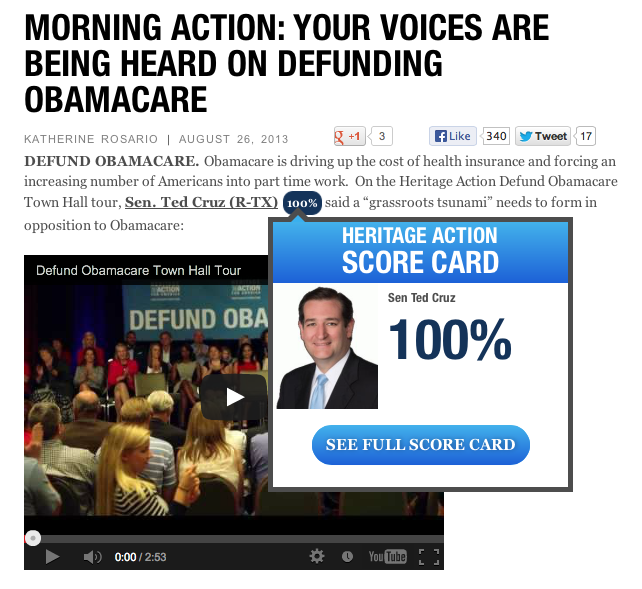
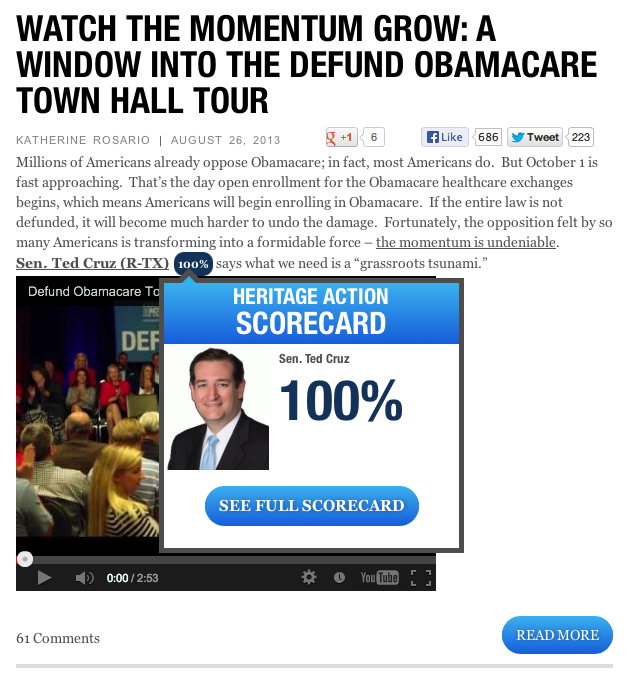
Updated scorecard spelling
git-svn-id: https://plugins.svn.wordpress.org/heritageaction-score-card-member-scores/trunk@769262 b8457f37-d9ea-0310-8a92-e5e31aec5664

diff --git a/scorecardmembers.php b/scorecardmembers.php
@@ -1,8 +1,8 @@
 <?php
 /*
-Plugin Name: HeritageAction Score Card Member Score
+Plugin Name: HeritageAction Scorecard Member Score
 Plugin URI: http://www.heritageaction.com
-Description: HeritageAction Score Card Members of Congress
+Description: HeritageAction Scorecard Members of Congress
 Version: 1.0
 Author: Heritage Action for America
 Author URI: http://heritageaction.com
@@ -59,8 +59,8 @@ class  HAScoreSettingsPage
     {
         // This page will be under "Settings"
         add_options_page(
-            'HeritageAction Score Card Members', 
-            'Score Card', 
+            'HeritageAction Scorecard Members', 
+            'Scorecard', 
             'manage_options', 
             'scorecard-setting-admin', 
             array( $this, 'create_admin_page' )
@@ -77,7 +77,7 @@ class  HAScoreSettingsPage
         ?>
         <div class="wrap">
             <?php screen_icon(); ?>
-            <h2>HeritageAction Score Card</h2>
+            <h2>HeritageAction Scorecard</h2>
             
             <?php            
             if(!empty($this->options['scorecard_api_key'])) :
@@ -118,14 +118,14 @@ class  HAScoreSettingsPage
 
         add_settings_section(
             'setting_section_id', // ID
-            'Score Card Member Settings', // Title
+            'Scorecard Member Settings', // Title
             array( $this, 'print_section_info' ), // Callback
             'scorecard-setting-admin' // Page
         );  
 
         add_settings_field(
             'scorecard_api_key', // ID
-            'Score Card API Key', // Title 
+            'Scorecard API Key', // Title 
             array( $this, 'scorecard_api_key_callback' ), // Callback
             'scorecard-setting-admin', // Page
             'setting_section_id' // Section           
@@ -639,7 +639,7 @@ class HAScoreMembers{
                        '</span>'.        
                        '<span class="score-bubble-headline">'.
                           'Heritage Action'.
-                          '<span class="bubble-title">Score Card</span>'.
+                          '<span class="bubble-title">Scorecard</span>'.
                        '</span>'.
                        '<span class="score-bubble-content">'.
                            '<span class="score-bubble-image">'.
@@ -652,7 +652,7 @@ class HAScoreMembers{
                            '<span class="score-bubble-separator"></span>'.
                        '</span>'.
                        '<span class="score-bubble-button-wrap">'.
-                         '<a href="http://heritageactionscorecard.com/members/member/'.$scorecard_member_data->congID.'" target="_blank" class="btn rounded gradient medium-blue-gradient">See Full Score Card</a>'.
+                         '<a href="http://heritageactionscorecard.com/members/member/'.$scorecard_member_data->congID.'" target="_blank" class="btn rounded gradient medium-blue-gradient">See Full Scorecard</a>'.
                        '</span>'.               
                    '</span>'.
                    '<span class="score-bubble-score-value">'.$scorecard_member_data->score.'%</span>'.
